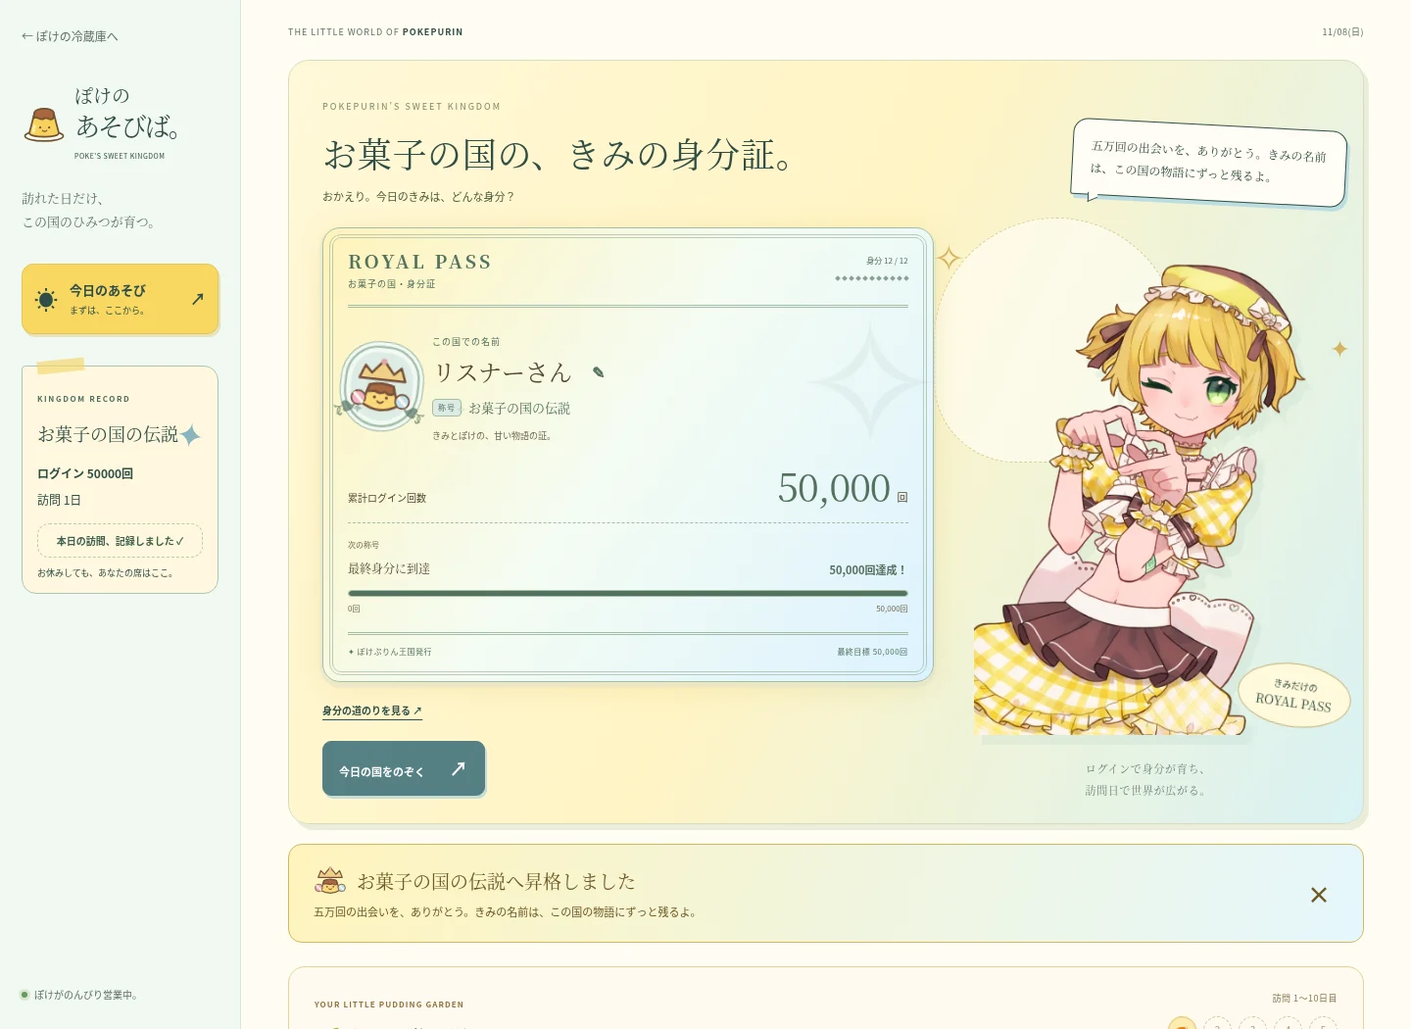
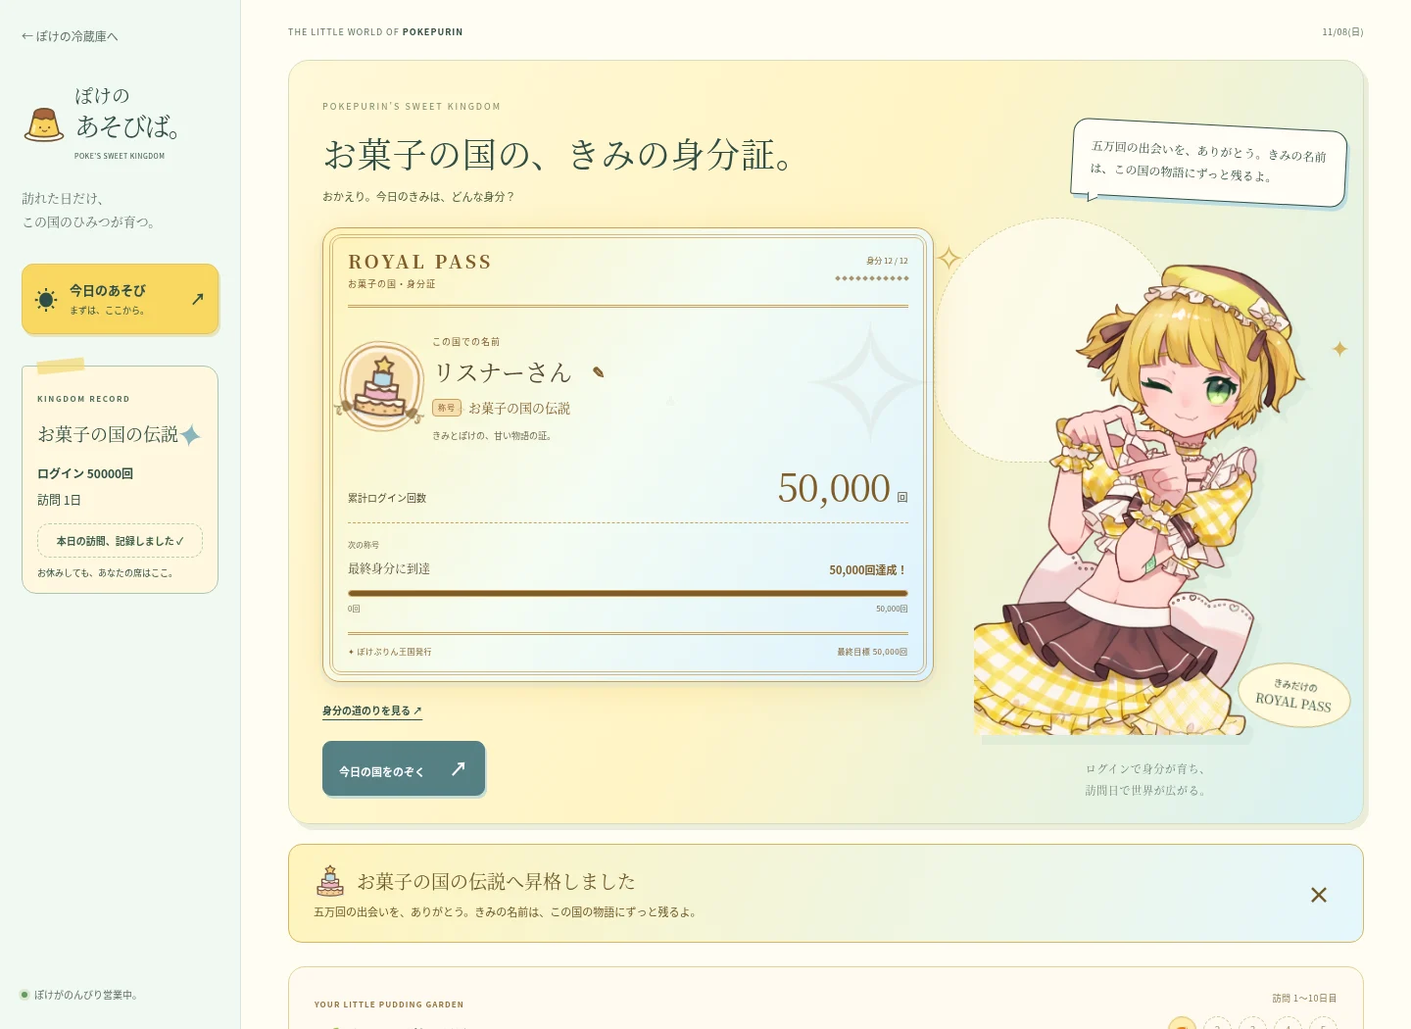
Introduce pudding early, separate guardian and legend, and remove sweet faces

diff --git a/royal-test.html b/royal-test.html
@@ -277,21 +277,24 @@ body{margin:0}.trial-controls>p{font-size:11px;line-height:2}.trial-controls lab
       <section id="royalPromotion" class="royal-promotion" role="status" aria-live="polite" hidden><div><h2 id="royalPromotionTitle"></h2><p id="royalPromotionLine"></p></div><button id="royalDismiss" aria-label="昇格のお知らせを閉じる">×</button></section>
 <section id="demoFacilities" class="card trial-facilities"><p class="eyebrow">LOGIN RANK / VISITING DAYS</p><h2>身分と施設は、別々に育ちます。</h2><p id="demoDaySummary"></p><div id="demoRooms"></div><p class="trial-note">このページでは施設の開放状態だけを表示します。手紙や施設の実際の操作は、レビュー中の本体にあります。</p></section><footer><p>保存しない、ROYAL PASSの体験版です。</p></footer></main></div><script>// Small, self-contained SVG stickers: no fonts, network resources, or user HTML.
 const outline='stroke="#77523d" stroke-width="2.3" stroke-linejoin="round" stroke-linecap="round"';
-const face='<g fill="#77523d"><circle cx="26" cy="38" r="1.6"/><circle cx="38" cy="38" r="1.6"/></g><path d="M29 42q3 3 6 0" fill="none" stroke="#77523d" stroke-width="1.7" stroke-linecap="round"/>';
 const sweetMotifs={
- cookie:{label:'クッキー',bg:'#fff7df',panel:'#ffe9ad',edge:'#c69a58',accent:'#805d2d',art:`<circle cx="32" cy="33" r="23" fill="#f2c87a" ${outline}/><circle cx="32" cy="33" r="18.5" fill="none" stroke="#d6a45b" stroke-width="1.2" stroke-dasharray="1 4"/><g fill="#906043"><path d="m21 20 5 1-1 5-5-1z"/><path d="m38 17 5 2-2 5-5-2z"/><path d="m44 31 4 1-1 4-4-1z"/><path d="m18 37 4 1-1 4-4-1z"/><path d="m37 47 5-1 1 4-5 1z"/></g>${face}`},
- candy:{label:'キャンディ',bg:'#f0faff',panel:'#e0f0f8',edge:'#88b9ce',accent:'#3d7188',art:`<path d="m15 23-10-6 1 15-1 15 12-7M48 23l11-6-1 15 1 15-12-7" fill="#b9e3f4" ${outline}/><path d="M10 23l4 7-5 9m45-16-4 7 5 9" fill="none" stroke="#79afc6" stroke-width="1.6"/><circle cx="32" cy="32" r="19" fill="#f3acb8" ${outline}/><path d="M19 21q13 2 23 18M29 14q9 6 17 17" fill="none" stroke="#fff8ed" stroke-width="6" stroke-linecap="round"/><path d="M23 28q4-3 7-2" stroke="#fff" stroke-width="2" fill="none" opacity=".8"/><g transform="translate(0,-1)">${face}</g>`},
- biscuit:{label:'ビスケット',bg:'#fff8e5',panel:'#f6e3b9',edge:'#c39c64',accent:'#805f36',art:`<rect x="10" y="12" width="44" height="43" rx="9" fill="#e7bb72" ${outline}/><rect x="15" y="17" width="34" height="33" rx="6" fill="#f6d69a" stroke="#c69959" stroke-width="1.4" stroke-dasharray="2 3"/><g fill="#bf9255"><circle cx="23" cy="25" r="1.5"/><circle cx="32" cy="25" r="1.5"/><circle cx="41" cy="25" r="1.5"/><circle cx="23" cy="45" r="1.2"/><circle cx="41" cy="45" r="1.2"/></g>${face}`},
- macaron:{label:'マカロン',bg:'#fff1f5',panel:'#f8dce8',edge:'#cd97b0',accent:'#8d526e',art:`<path d="M10 28c0-12 10-19 22-19s22 7 22 19Z" fill="#eda2bf" ${outline}/><path d="M11 27h42v7H11Z" fill="#f6bbcf" ${outline}/><path d="M10 34h44v6H10Z" fill="#fff9e7" ${outline}/><path d="M11 40h42c-1 10-10 15-21 15S12 50 11 40Z" fill="#df88ac" ${outline}/><path d="M21 19q9-6 18-3" fill="none" stroke="#ffe4eb" stroke-width="3.2" stroke-linecap="round"/><g transform="translate(0,-15)">${face}</g>`},
+ cookie:{label:'クッキー',bg:'#fff7df',panel:'#ffe9ad',edge:'#c69a58',accent:'#805d2d',art:`<circle cx="32" cy="33" r="23" fill="#f2c87a" ${outline}/><circle cx="32" cy="33" r="18.5" fill="none" stroke="#d6a45b" stroke-width="1.2" stroke-dasharray="1 4"/><g fill="#906043"><path d="m21 20 5 1-1 5-5-1z"/><path d="m38 17 5 2-2 5-5-2z"/><path d="m44 31 4 1-1 4-4-1z"/><path d="m18 37 4 1-1 4-4-1z"/><path d="m37 47 5-1 1 4-5 1z"/></g>`},
+ candy:{label:'キャンディ',bg:'#f0faff',panel:'#e0f0f8',edge:'#88b9ce',accent:'#3d7188',art:`<path d="m15 23-10-6 1 15-1 15 12-7M48 23l11-6-1 15 1 15-12-7" fill="#b9e3f4" ${outline}/><path d="M10 23l4 7-5 9m45-16-4 7 5 9" fill="none" stroke="#79afc6" stroke-width="1.6"/><circle cx="32" cy="32" r="19" fill="#f3acb8" ${outline}/><path d="M19 21q13 2 23 18M29 14q9 6 17 17" fill="none" stroke="#fff8ed" stroke-width="6" stroke-linecap="round"/><path d="M23 28q4-3 7-2" stroke="#fff" stroke-width="2" fill="none" opacity=".8"/>`},
+ biscuit:{label:'ビスケット',bg:'#fff8e5',panel:'#f6e3b9',edge:'#c39c64',accent:'#805f36',art:`<rect x="10" y="12" width="44" height="43" rx="9" fill="#e7bb72" ${outline}/><rect x="15" y="17" width="34" height="33" rx="6" fill="#f6d69a" stroke="#c69959" stroke-width="1.4" stroke-dasharray="2 3"/><g fill="#bf9255"><circle cx="23" cy="25" r="1.5"/><circle cx="32" cy="25" r="1.5"/><circle cx="41" cy="25" r="1.5"/><circle cx="23" cy="45" r="1.2"/><circle cx="41" cy="45" r="1.2"/></g>`},
+ macaron:{label:'マカロン',bg:'#fff1f5',panel:'#f8dce8',edge:'#cd97b0',accent:'#8d526e',art:`<path d="M10 28c0-12 10-19 22-19s22 7 22 19Z" fill="#eda2bf" ${outline}/><path d="M11 27h42v7H11Z" fill="#f6bbcf" ${outline}/><path d="M10 34h44v6H10Z" fill="#fff9e7" ${outline}/><path d="M11 40h42c-1 10-10 15-21 15S12 50 11 40Z" fill="#df88ac" ${outline}/><path d="M21 19q9-6 18-3" fill="none" stroke="#ffe4eb" stroke-width="3.2" stroke-linecap="round"/>`},
  chocolate:{label:'ショコラ',bg:'#fff3e8',panel:'#efd8c4',edge:'#bc9876',accent:'#795039',art:`<rect x="13" y="7" width="38" height="49" rx="5" fill="#865438" ${outline}/><g fill="#a8734b" stroke="#633f2e" stroke-width="1.8"><rect x="18" y="12" width="12" height="12" rx="2"/><rect x="34" y="12" width="12" height="12" rx="2"/><rect x="18" y="28" width="12" height="12" rx="2"/><rect x="34" y="28" width="12" height="12" rx="2"/></g><path d="m13 39 19 6 19-6v17H13Z" fill="#b4d9e3" ${outline}/><path d="m22 16 4-1m12 1 4-1" stroke="#dba679" stroke-width="2" stroke-linecap="round"/>`},
  caramel:{label:'キャラメル',bg:'#fff3dc',panel:'#f5d4a0',edge:'#c59152',accent:'#84592e',art:`<path d="m9 22 15-9 17 9-15 10Z" fill="#e6ae67" ${outline}/><path d="m9 22 17 10v19L9 41Z" fill="#c38645" ${outline}/><path d="m26 32 15-10v20L26 51Z" fill="#dda05c" ${outline}/><path d="m31 34 13-8 14 8-13 8Z" fill="#f0c485" ${outline}/><path d="m31 34 14 8v16l-14-8Z" fill="#c58b4b" ${outline}/><path d="m45 42 13-8v16l-13 8Z" fill="#e1aa68" ${outline}/><path d="m18 22 7-4m15 16 5-3" stroke="#ffdfad" stroke-width="2.5" stroke-linecap="round"/>`},
  tart:{label:'タルト',bg:'#fff6df',panel:'#f4e0ad',edge:'#cba266',accent:'#805f30',art:`<path d="m10 29 5 22q17 10 34 0l5-22Z" fill="#d9a560" ${outline}/><path d="m18 34 3 16m7-14 1 17m8-17-1 17m10-19-3 16" stroke="#b98645" stroke-width="1.7"/><ellipse cx="32" cy="29" rx="23" ry="12" fill="#f5ce82" ${outline}/><ellipse cx="32" cy="27" rx="18" ry="8" fill="#fff1be" stroke="#c99b59" stroke-width="1.5"/><path d="M24 18q8-10 16 0l-8 17Z" fill="#e78b8b" ${outline}/><path d="m27 15 5-6 5 6-5-2Z" fill="#95ba85" stroke="#6d8c60" stroke-width="1.5"/><g fill="#ffeac4"><circle cx="29" cy="20" r="1"/><circle cx="35" cy="20" r="1"/><circle cx="32" cy="26" r="1"/></g>`},
  parfait:{label:'パフェ',bg:'#fff3f3',panel:'#f4dbe0',edge:'#c5a0b3',accent:'#88576b',art:`<path d="m15 25 7 25q10 7 20 0l7-25Z" fill="#e1f2f6" ${outline}/><path d="m18 34 3 9q11 5 22 0l3-9Z" fill="#e7a4b3" stroke="#986f70" stroke-width="1.5"/><path d="m21 43 2 6q9 5 18 0l2-6" fill="#a77959"/><path d="M14 25q-1-8 7-9 0-8 9-9 10-1 13 8 8 0 8 10Z" fill="#fff7e8" ${outline}/><path d="M27 16q6 2 10-1" fill="none" stroke="#d6c1a5" stroke-width="1.8"/><circle cx="33" cy="8" r="5" fill="#df8a8a" stroke="#77523d" stroke-width="1.6"/><path d="m36 4 4-3" stroke="#7c9f6e" stroke-width="2"/><path d="M32 54v6m-10 0h20" stroke="#77523d" stroke-width="2.5" stroke-linecap="round"/>`},
- pudding:{label:'プリン',bg:'#fff5cc',panel:'#ffe49a',edge:'#c69b43',accent:'#805b22',art:`<ellipse cx="32" cy="54" rx="26" ry="5" fill="#e3eff0" stroke="#8eaeb0" stroke-width="1.5"/><path d="M18 18q14-5 28 0l8 30q-22 13-44 0Z" fill="#f9d979" ${outline}/><path d="M18 18q14-6 28 0l2 10q-5 4-9-1-7 6-14 0-5 5-9 0Z" fill="#a76843" ${outline}/>${face}<g fill="#efa0a0"><ellipse cx="20" cy="43" rx="4" ry="2"/><ellipse cx="44" cy="43" rx="4" ry="2"/></g><path d="m17 35 2-5" stroke="#fff0b2" stroke-width="2.5" stroke-linecap="round"/>`},
- cream:{label:'クリーム',bg:'#f0faff',panel:'#e1eff5',edge:'#a6bdca',accent:'#5d788a',art:`<ellipse cx="32" cy="55" rx="25" ry="4" fill="#cce4eb"/><path d="M10 48q-3-9 7-14-5-8 8-13-2-9 14-16-3 12 6 17 9 4 4 12 10 6 5 15-3 10-22 10S11 55 10 48Z" fill="#fff9e9" ${outline}/><path d="M23 22q10 4 18-2M18 35q14 4 29-1" fill="none" stroke="#d6c6a8" stroke-width="2" stroke-linecap="round"/><g transform="translate(0,4)">${face}</g>`},
- kingdom:{label:'お菓子の国',bg:'#f2f9f4',panel:'#dcece3',edge:'#a4bda8',accent:'#53715e',art:`<path d="m9 25 5-13 7 7 11-13 11 13 7-7 5 13Z" fill="#efd185" ${outline}/><circle cx="32" cy="7" r="3" fill="#e1a5a3"/><path d="M20 31q12-4 24 0l6 19q-18 11-36 0Z" fill="#f9d979" ${outline}/><path d="M20 31q12-4 24 0l1 7q-5 3-9-1-5 3-10 0l-8 1Z" fill="#a76843" ${outline}/><circle cx="10" cy="45" r="7" fill="#f2b2c5" stroke="#77523d" stroke-width="1.6"/><path d="m5 40 10 10" stroke="#fff7e8" stroke-width="3"/><circle cx="54" cy="45" r="7" fill="#c0e1ee" stroke="#77523d" stroke-width="1.6"/><path d="m50 41 8 8" stroke="#fff7e8" stroke-width="3"/><g transform="translate(0,5)">${face}</g>`}
+ pudding:{label:'プリン',bg:'#fff5cc',panel:'#ffe49a',edge:'#c69b43',accent:'#805b22',art:`<ellipse cx="32" cy="54" rx="26" ry="5" fill="#e3eff0" stroke="#8eaeb0" stroke-width="1.5"/><path d="M18 18q14-5 28 0l8 30q-22 13-44 0Z" fill="#f9d979" ${outline}/><path d="M18 18q14-6 28 0l2 10q-5 4-9-1-7 6-14 0-5 5-9 0Z" fill="#a76843" ${outline}/><path d="m17 35 2-5" stroke="#fff0b2" stroke-width="2.5" stroke-linecap="round"/>`},
+ cream:{label:'クリーム',bg:'#f0faff',panel:'#e1eff5',edge:'#a6bdca',accent:'#5d788a',art:`<ellipse cx="32" cy="55" rx="25" ry="4" fill="#cce4eb"/><path d="M10 48q-3-9 7-14-5-8 8-13-2-9 14-16-3 12 6 17 9 4 4 12 10 6 5 15-3 10-22 10S11 55 10 48Z" fill="#fff9e9" ${outline}/><path d="M23 22q10 4 18-2M18 35q14 4 29-1" fill="none" stroke="#d6c6a8" stroke-width="2" stroke-linecap="round"/>`},
+ kingdom:{label:'お菓子の国',bg:'#f2f9f4',panel:'#dcece3',edge:'#a4bda8',accent:'#53715e',art:`<path d="m9 25 5-13 7 7 11-13 11 13 7-7 5 13Z" fill="#efd185" ${outline}/><circle cx="32" cy="7" r="3" fill="#e1a5a3"/><path d="M20 31q12-4 24 0l6 19q-18 11-36 0Z" fill="#f9d979" ${outline}/><path d="M20 31q12-4 24 0l1 7q-5 3-9-1-5 3-10 0l-8 1Z" fill="#a76843" ${outline}/><circle cx="10" cy="45" r="7" fill="#f2b2c5" stroke="#77523d" stroke-width="1.6"/><path d="m5 40 10 10" stroke="#fff7e8" stroke-width="3"/><circle cx="54" cy="45" r="7" fill="#c0e1ee" stroke="#77523d" stroke-width="1.6"/><path d="m50 41 8 8" stroke="#fff7e8" stroke-width="3"/>`}
+
+ ,guardian:{label:'キャンディの盾',bg:'#edf8fa',panel:'#d5ebed',edge:'#83aeb4',accent:'#416c74',art:`<path d="M32 5q12 7 23 7v19q0 18-23 29Q9 49 9 31V12q11 0 23-7Z" fill="#b5d9de" ${outline}/><path d="M32 11q9 5 17 5v15q0 13-17 22-17-9-17-22V16q8 0 17-5Z" fill="#eaf8f5" stroke="#739da5" stroke-width="1.7"/><path d="m22 24 4 6 2-3v9l-4-3-2 6M42 24l-4 6-2-3v9l4-3 2 6" fill="#efbf9b" ${outline}/><circle cx="32" cy="31" r="8" fill="#f6d57e" ${outline}/><path d="m27 26 10 10" stroke="#fff7dd" stroke-width="3"/><path d="m30 6 2-4 2 4" fill="#f6d57e" stroke="#77523d" stroke-width="1.5"/>`}
+ ,legend:{label:'星の三段ケーキ',bg:'#fff5e3',panel:'#f8dfaf',edge:'#caa05a',accent:'#805c29',art:`<ellipse cx="32" cy="59" rx="28" ry="3" fill="#d5e8eb"/><path d="M8 43h48v14q-24 7-48 0Z" fill="#f5cf99" ${outline}/><path d="M8 43h48v5q-5 5-10 0-6 5-12 0-6 5-12 0-7 5-14 0Z" fill="#fff8e7" ${outline}/><path d="M16 29h32v14q-16 5-32 0Z" fill="#edb4c5" ${outline}/><path d="M16 29h32v5q-4 4-8 0-5 5-10 0-6 5-14 0Z" fill="#fff8e7" ${outline}/><path d="M23 18h18v12q-9 4-18 0Z" fill="#b9dce7" ${outline}/><path d="m32 2 3 5 6 1-4 5 1 6-6-3-6 3 1-6-4-5 6-1Z" fill="#f5d578" ${outline}/><g fill="#b78742"><circle cx="16" cy="54" r="1.5"/><circle cx="26" cy="56" r="1.5"/><circle cx="38" cy="56" r="1.5"/><circle cx="48" cy="54" r="1.5"/></g>`}
+
 };
-function motifForTitle(title){for(const [pattern,key] of [[/キャラメル/,'caramel'],[/キャンディ/,'candy'],[/クッキー/,'cookie'],[/ビスケット/,'biscuit'],[/マカロン/,'macaron'],[/ショコラ|チョコ/,'chocolate'],[/タルト/,'tart'],[/パフェ/,'parfait'],[/プリン/,'pudding'],[/クリーム/,'cream']])if(pattern.test(title))return key;return /旅人/.test(title)?'cookie':'kingdom';}
+function motifForTitle(title){for(const [pattern,key] of [[/キャラメル/,'caramel'],[/キャンディ/,'candy'],[/クッキー/,'cookie'],[/ビスケット/,'biscuit'],[/マカロン/,'macaron'],[/ショコラ|チョコ/,'chocolate'],[/タルト/,'tart'],[/パフェ/,'parfait'],[/プリン/,'pudding'],[/クリーム/,'cream']])if(pattern.test(title))return key;if(/守護者/.test(title))return 'guardian';if(/伝説/.test(title))return 'legend';return /旅人/.test(title)?'cookie':'kingdom';}
 function sweetIcon(key){const motif=Object.hasOwn(sweetMotifs,key)?sweetMotifs[key]:sweetMotifs.kingdom;return `<svg class="sweet-icon" xmlns="http://www.w3.org/2000/svg" viewBox="0 0 64 64" role="img" aria-label="${motif.label}のモチーフ" data-sweet="${Object.hasOwn(sweetMotifs,key)?key:'kingdom'}"><title>${motif.label}</title>${motif.art}</svg>`;}
 
 const royalNameKey='poke-royal-name-v1';
@@ -305,16 +308,16 @@ const ROYAL_GOAL = 50000;
 const royalRanks = [
  {at:0,id:'traveler',name:'お菓子の国の旅人',short:'旅人',crest:'🍪',color:'cream',effect:'crumbs',line:'ようこそ。きみのために、小さな身分証を用意したよ。'},
  {at:10,id:'citizen',name:'キャンディの国民',short:'国民',crest:'🍬',color:'sky',effect:'sparkles',line:'今日から、きみもこの国の仲間だよ。'},
- {at:30,id:'artisan',name:'クッキーの菓子職人',short:'菓子職人',crest:'🍪',color:'custard',effect:'seal',line:'きみの優しさで、この国のお菓子はもっと甘くなるね。'},
+ {at:30,id:'artisan',name:'プリンの菓子職人',short:'菓子職人',crest:'🍮',color:'custard',effect:'seal',line:'きみの優しさで、この国のお菓子はもっと甘くなるね。'},
  {at:100,id:'knight',name:'ビスケットの騎士',short:'騎士',crest:'🍪',color:'sky',effect:'ribbon',line:'きみがいてくれると、ぽけは安心できるよ。'},
  {at:300,id:'baron',name:'マカロンの男爵',short:'男爵',crest:'🩷',color:'rose',effect:'petals',line:'きみのための特別な席を、王城に用意したよ。'},
  {at:1000,id:'viscount',name:'ショコラの子爵',short:'子爵',crest:'🍫',color:'custard',effect:'seal',line:'千回の「ただいま」を、この国の宝物にしよう。'},
  {at:3000,id:'earl',name:'タルトの伯爵',short:'伯爵',crest:'🥧',color:'sky',effect:'stars',line:'きみと過ごした時間が、国じゅうで輝いているよ。'},
  {at:5000,id:'marquis',name:'パフェの侯爵',short:'侯爵',crest:'🍨',color:'rose',effect:'ribbon',line:'この国の景色が、きみと一緒に少しずつ育ってきたね。'},
- {at:10000,id:'duke',name:'プリンの公爵',short:'公爵',crest:'🍮',color:'gold',effect:'crown',line:'一万回も会いに来てくれて、ありがとう。きみはこの国の誇りだよ。'},
+ {at:10000,id:'duke',name:'キャラメルの公爵',short:'公爵',crest:'🍬',color:'gold',effect:'crown',line:'一万回も会いに来てくれて、ありがとう。きみはこの国の誇りだよ。'},
  {at:20000,id:'royal',name:'クリームの王族',short:'王族',crest:'🧁',color:'sky',effect:'aurora',line:'おかえり。王城にも、きみの居場所があるよ。'},
- {at:30000,id:'guardian',name:'お菓子の国の守護者',short:'守護者',crest:'🍰',color:'gold',effect:'stars',line:'きみが大切にしてくれたこの国を、ぽけもずっと大切にするね。'},
- {at:50000,id:'legend',name:'お菓子の国の伝説',short:'伝説',crest:'🍰',color:'legend',effect:'constellation',line:'五万回の出会いを、ありがとう。きみの名前は、この国の物語にずっと残るよ。'}
+ {at:30000,id:'guardian',name:'お菓子の国の守護者',short:'守護者',crest:'🛡',color:'gold',effect:'stars',line:'きみが大切にしてくれたこの国を、ぽけもずっと大切にするね。'},
+ {at:50000,id:'legend',name:'お菓子の国の伝説',short:'伝説',crest:'🎂',color:'legend',effect:'constellation',line:'五万回の出会いを、ありがとう。きみの名前は、この国の物語にずっと残るよ。'}
 ].map((rank,index)=>({...rank,motif:motifForTitle(rank.name),ornament:index}));
 function royalStatus(logins){
  const count=Number.isSafeInteger(logins)&&logins>=0?logins:0;

diff --git a/play.html b/play.html
@@ -7,11 +7,11 @@
   <title>ぷりんの遊び場｜通うほど育つ、ぽけぷりんのひみつ基地</title>
   <meta name="description" content="ぽけぷりんと過ごす、登録不要の遊び場。ログインで身分が育ち、訪問10日・30日で新しい部屋が開き、訪問日や時間で手紙と事件が変わります。最初は小さく、通うほどあなたの居場所が育ちます。">
   <link rel="icon" href="assets/fridge/9cf7154717bd7fa6.svg" type="image/svg+xml">
-  <link rel="stylesheet" href="assets/play.css?v=sweets-1">
-  <link rel="stylesheet" href="assets/poke-story.css?v=sweets-1">
-  <link rel="stylesheet" href="assets/poke-royal.css?v=sweets-1">
+  <link rel="stylesheet" href="assets/play.css?v=sweets-2">
+  <link rel="stylesheet" href="assets/poke-story.css?v=sweets-2">
+  <link rel="stylesheet" href="assets/poke-royal.css?v=sweets-2">
   <script src="assets/poke-config.js"></script>
-  <script type="module" src="assets/play.mjs?v=sweets-1"></script>
+  <script type="module" src="assets/play.mjs?v=sweets-2"></script>
 
   <link rel="canonical" href="https://pokepurin0701.github.io/play.html">
   <meta name="robots" content="index,follow">

diff --git a/index.html b/index.html
@@ -329,6 +329,6 @@
   renderVideo();
 })();
 </script><style>.poke-play-link{position:fixed;right:18px;bottom:max(18px,env(safe-area-inset-bottom));z-index:60;background:#fffdf0;color:#3b554d;border:2px solid #3b554d;border-radius:30px;padding:12px 18px;font:700 13px/1.6 var(--sans,sans-serif);box-shadow:3px 4px 0 #aac8c3;text-decoration:none}.poke-play-link:focus-visible{outline:3px solid #278591;outline-offset:4px}@media(max-width:480px){.poke-play-link{right:12px;padding:10px 14px;font-size:12px}}</style><a class="poke-play-link" href="play.html">🍮 ぽけの遊び場へ →</a>
-<script type="module" src="assets/poke-entry-home.mjs?v=sweets-1"></script>
+<script type="module" src="assets/poke-entry-home.mjs?v=sweets-2"></script>
 </body>
 </html>

diff --git a/docs/royal-pass-review.md b/docs/royal-pass-review.md
@@ -8,7 +8,7 @@
 
 既存の丸いカード・Kiwi Maru・ぽけの画像を使い、黄色・水色・クリーム色の明るい身分証を主役にしました。
 
-![PC：プリンの公爵の身分証](review/royal-desktop.webp)
+![PC：キャラメルの公爵の身分証](review/royal-desktop.webp)
 
 ![スマートフォン：50,000回の最終身分](review/royal-mobile.webp)
 
@@ -21,13 +21,13 @@
 | 称号 | モチーフ |
 | --- | --- |
 | キャンディの国民 | キャンディ |
-| クッキーの菓子職人 | クッキー |
+| プリンの菓子職人 | プリン |
 | ビスケットの騎士 | ビスケット |
 | マカロンの男爵 | マカロン |
 | ショコラの子爵 | チョコレート |
 | タルトの伯爵 | フルーツタルト |
 | パフェの侯爵 | パフェ |
-| プリンの公爵 | プリン |
+| キャラメルの公爵 | キャラメル |
 | クリームの王族 | ホイップクリーム |
 
 名前は鉛筆ボタンで変更できます。実際のページでは名前専用の保存キーだけを使い、既存の進捗・手紙・季節イベントの記録には触れません。お試し版の名前は保存されません。
@@ -47,13 +47,13 @@
 | ---: | --- | --- |
 | 0 | お菓子の国の旅人 | クッキーの紋章 |
 | 10 | キャンディの国民 | 小さなきらめき |
-| 30 | クッキーの菓子職人 | 紋章のスタンプ |
+| 30 | プリンの菓子職人 | 紋章のスタンプ |
 | 100 | ビスケットの騎士 | リボンの輝き |
 | 300 | マカロンの男爵 | 花びら |
 | 1,000 | ショコラの子爵 | 紋章のスタンプ |
 | 3,000 | タルトの伯爵 | 星 |
 | 5,000 | パフェの侯爵 | リボンの輝き |
-| 10,000 | プリンの公爵 | 王冠 |
+| 10,000 | キャラメルの公爵 | 王冠 |
 | 20,000 | クリームの王族 | オーロラ |
 | 30,000 | お菓子の国の守護者 | 星 |
 | 50,000 | お菓子の国の伝説 | 星座とオーロラ |
@@ -84,3 +84,7 @@
 - 名前の変更・再読み込み・HTML文字の無害化・保存できない環境でも既存の進捗が変わらないことを確認。
 - 20文字の名前を含む390px・320px表示で横はみ出しがないことを確認。
 - 単一HTMLのお試し版で、名前と称号を切り替えてもブラウザの記録を読み書きしないことを確認。
+
+称号のお菓子には顔を付けません。プリンは30回の「プリンの菓子職人」で登場します。守護者はキャンディの盾、伝説は星の三段ケーキで、それぞれ別のモチーフです。昇格の回数や既存の保存記録は変更しません。
+
+![守護者（左：キャンディの盾）と伝説（右：星の三段ケーキ）](review/royal-final-titles.webp)

diff --git a/README.md b/README.md
@@ -40,7 +40,7 @@ node --check server/worker.mjs
 
 ### 称号のお菓子と名前プレート
 
-称号に含まれるお菓子を `assets/poke-sweets.mjs` の小さなSVGステッカーで表示します。プリンの公爵にはプリン、マカロンの男爵にはマカロン、タルトの伯爵にはタルトが対応し、身分証・一覧・昇格のお知らせで同じイラストを使います。配色と枠も同じモチーフに合わせ、上位になるほど宝石の点・飾り枠・月桂樹が増えます。現在の称号名・ログインの昇格閾値は変更していません。
+称号に含まれるお菓子を `assets/poke-sweets.mjs` の小さなSVGステッカーで表示します。プリンの菓子職人にはプリン、マカロンの男爵にはマカロン、タルトの伯爵にはタルトが対応し、身分証・一覧・昇格のお知らせで同じイラストを使います。配色と枠も同じモチーフに合わせ、上位になるほど宝石の点・飾り枠・月桂樹が増えます。昇格回数は変更せず、プリンを30回の称号に移しています。
 
 モチーフの右側には名前、その下には称号を配置します。鉛筆ボタンから表示名を変更できます。名前は専用キー `poke-royal-name-v1` にだけ保存し、既存のログイン・訪問・手紙・季節イベントの保存キーは変更しません。名前は既存の進捗バックアップとは別のブラウザ内プロフィールです。`royal-test.html` では名前を含めて記録を読み書きせず、その画面内だけで試せます。
 
@@ -91,3 +91,5 @@ Playwrightの場所が異なるときは `PLAYWRIGHT_MODULE`、Chromiumの実行
 ### おためし専用ページ
 
 `christmas-test.html` で12月の表示と飾りつけをいつでも試せます。「テストの参加者」で2人分の操作を切り替え、「翌日に進む」で日次制限の解除を試せます。このページは本番APIに接続せず、このブラウザ内だけのテスト記録を使います。本番用の保存コード・ニックネーム・未確認送信を読み書きしません。「テストをリセット」はテスト専用の記録だけを消します。検索対象外のページで、通常サイトの季節表示や日付は変えません。
+
+称号のお菓子には顔を付けません。プリンは30回の「プリンの菓子職人」で登場します。守護者はキャンディの盾、伝説は星の三段ケーキで、それぞれ別のモチーフです。昇格の回数や既存の保存記録は変更しません。
